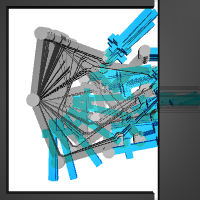
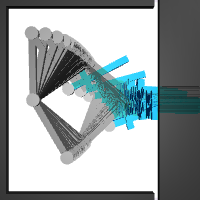
add peg insertion task

diff --git a/ge_world/peg_2d.py b/ge_world/peg_2d.py
@@ -174,6 +174,9 @@ class Peg2DEnv(mujoco_env.MujocoEnv):
                     return goal
 
     def _get_state(self):
+        if self.np_random.rand() < 0.1:
+            return self._get_goal_state(x=self.np_random.rand() * - 0.01)
+
         while True:
             states = self.np_random.uniform(low=-1.5, high=1.5, size=(4, 3))
             _ = self.np_random.uniform(0, np.pi / 2, size=4)
@@ -183,34 +186,37 @@ class Peg2DEnv(mujoco_env.MujocoEnv):
                 if good_state(state):
                     return state
 
-    def reset_model(self, x=None, goal=None):
-        self.reach_counts = 0
-        if x is None:
-            x = self._get_state()
+    def _get_goal_state(self, x=0, goal=None):
+        qpos = np.zeros(3)
         if goal is None:
-            goal = self._get_goal()
-        self.goal = goal
-        print(goal)
+            goal = self.goal
 
-        qpos = np.zeros(4)
-        qpos[-1] = 1  # always move out of the way for goal_image
-        # qpos[-1:] = goal  # show the slot.
-
-        peg_x_y = [-0.005, goal / 10]
+        peg_x_y = [x, goal / 10]
 
         base = (0.03 + peg_x_y[0])
         hypo = np.linalg.norm([base, peg_x_y[1]], ord=2)
-        print(hypo, 0.04)
         a0 = np.arctan(peg_x_y[1] / base)
         a1 = np.sign(self.np_random.rand() - 0.5) * np.arccos(hypo / 0.04)
         qpos[0] = a0 + a1
         qpos[1] = - 2 * a1
         qpos[2] = 0 - qpos[0] - qpos[1]
+        return qpos
+
+    def reset_model(self, x=None, goal=None):
+        self.reach_counts = 0
+        if goal is None:
+            goal = self._get_goal()
+        self.goal = goal
+        if x is None:
+            x = self._get_state()
+
+        # always move out of the way for goal_image
+        qpos = np.concatenate([self._get_goal_state(), [1]])
+        # qpos[-1:] = goal  # show the slot.
 
         self.set_state(qpos, self.sim.data.qvel)
 
-        self.goal_img = self.render('grey', width=self.width, height=self.height).transpose(0, 1)[
-                            None, ...] / 255
+        self.goal_img = self.render('grey', width=self.width, height=self.height).transpose(0, 1)[None, ...] / 255
 
         # now reset.
         self.sim.data.qpos[:] = np.concatenate([x, [1] if self.free else goal])
@@ -274,10 +280,10 @@ if __name__ == "__main__":
     # env.render('human', width=200, height=200)
 
     for i in trange(100):
+        frame = env.render('rgb', width=200, height=200)
         act = np.random.randint(low=0, high=26)
         # act = 13
         obs, reward, done, info = env.step(act)
-        frame = env.render('rgb', width=200, height=200)
         if i == 0:
             logger.log_image(1 - obs['img'][0], key=f"../figures/{env_id}_img.png")
             logger.log_image(1 - obs['goal_img'][0], key=f"../figures/{env_id}_goal_img.png")

diff --git a/README.md b/README.md
@@ -38,7 +38,7 @@ This is a maze navigation environment with a wall in the middle, separating the 
 #### Peg Insertion (2D)
 
 
-use '"a"' key to get access to the raw action.
+use `"a"` key to access the raw, continuous action.
 
 | key        | "Free" | Regular |
 | ---------- | ------ | ------- |
